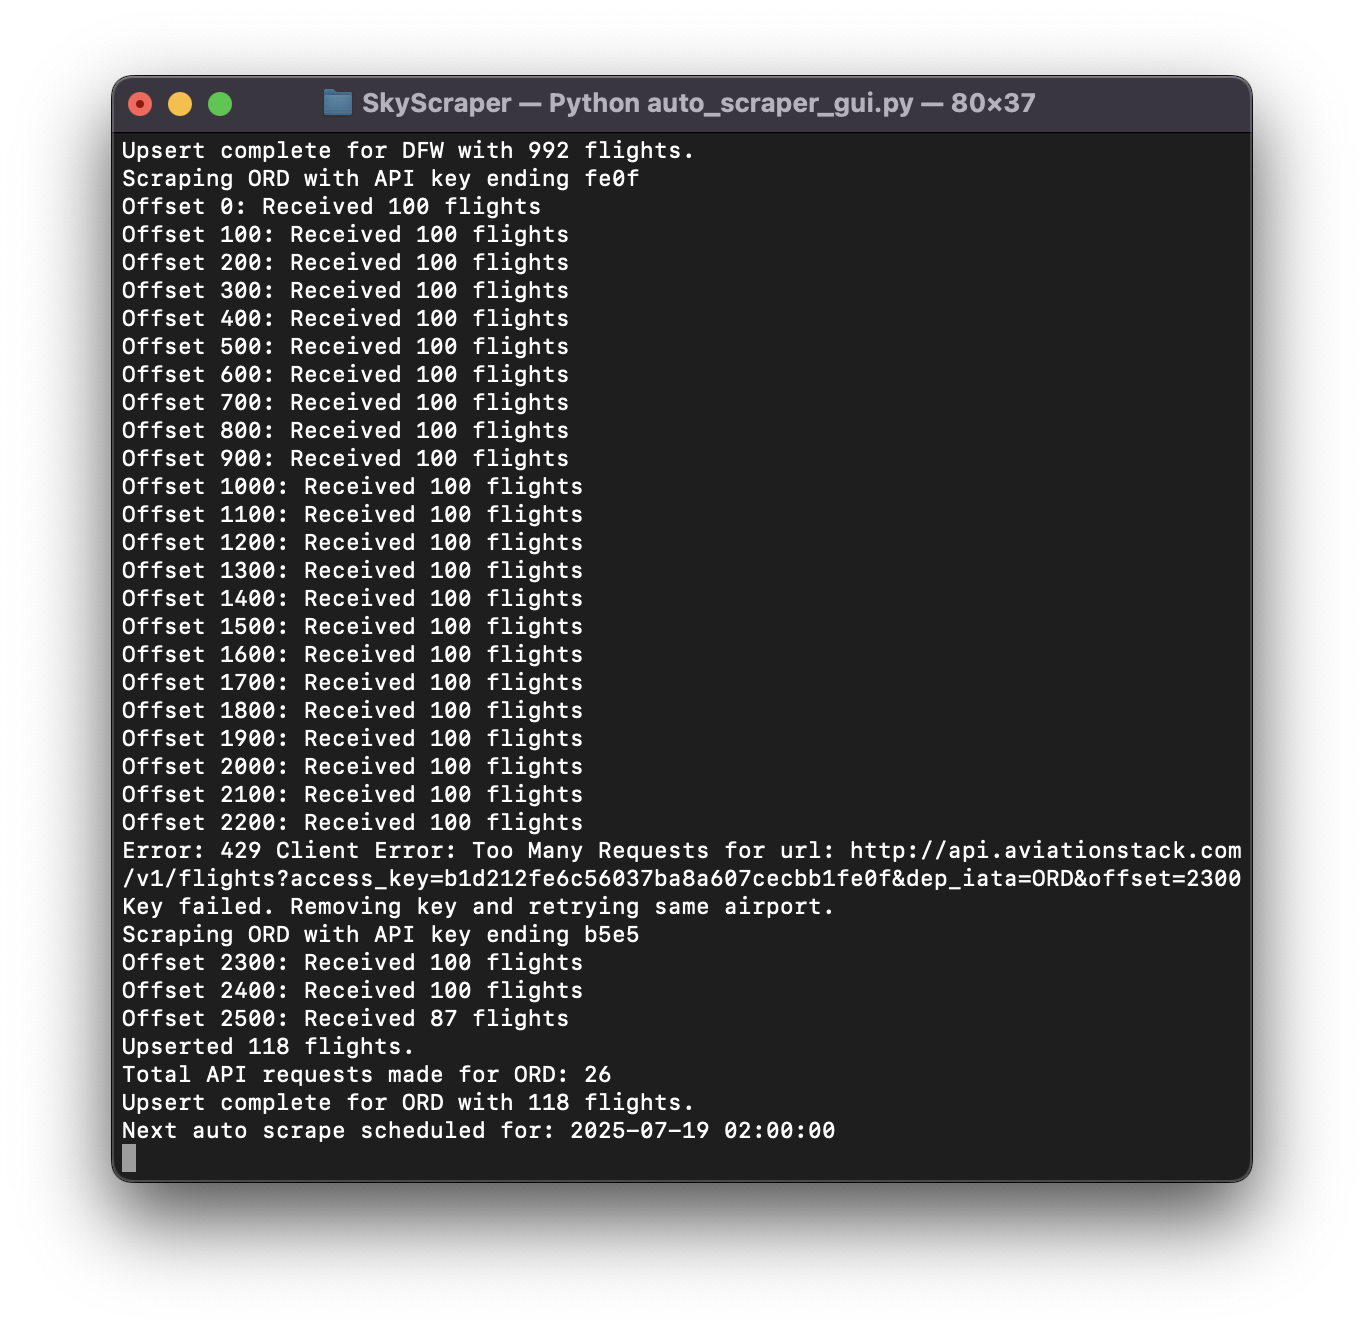
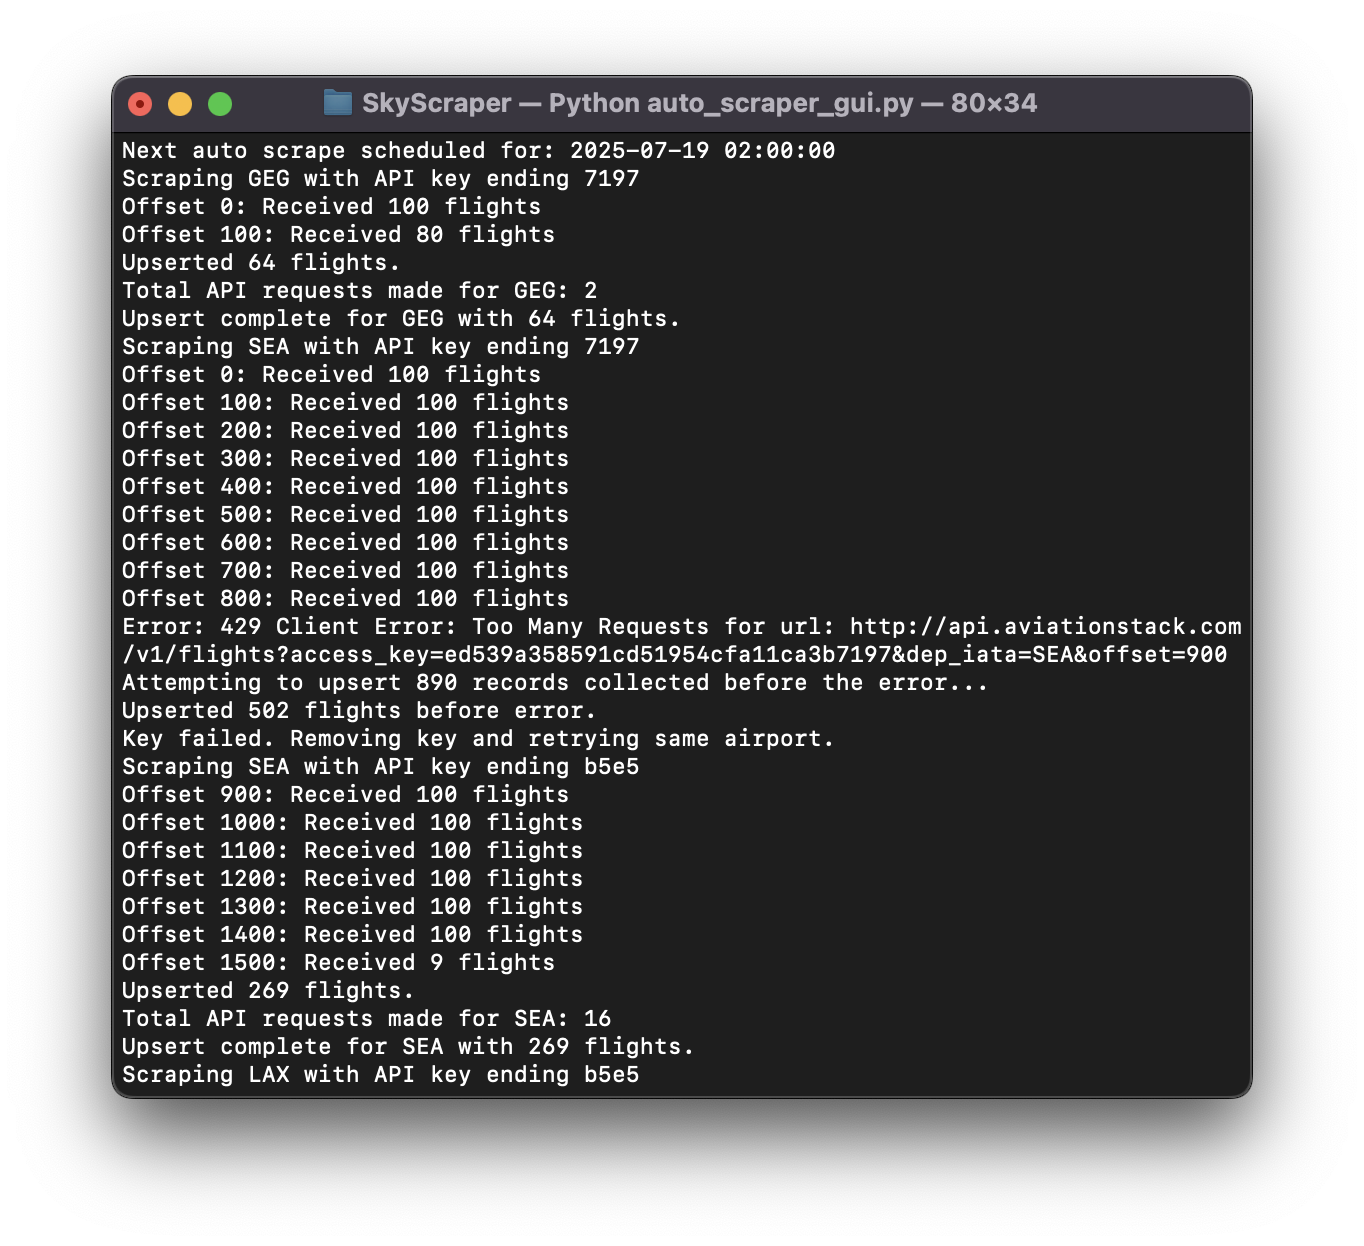
Ensure all data is upserted after API key failure

Changed region(s): [[0.0616, 0.0305, 0.9238, 0.9149]]

diff --git a/SkyScraper/scrape_real_flights.py b/SkyScraper/scrape_real_flights.py
@@ -183,4 +183,30 @@ def scrape(airport, api_key, mode="Upsert", offset=0):
 
     except Exception as e:
         print(f"Error: {e}")
-        return False, 0, mode, offset  # Return offset so GUI can retry properly
+        if records:
+            print(f"Attempting to upsert {len(records)} records collected before the error...")
+            # Deduplicate before upsert
+            unique = {}
+            for rec in records:
+                key = (
+                    rec["departureAirport"]["iataCode"],
+                    rec["arrivalAirport"]["iataCode"],
+                    rec["departureTime"],
+                    rec["dayOfWeek"]
+                )
+                unique[key] = rec
+            records = list(unique.values())
+
+            for rec in records:
+                flights_col.update_one(
+                    {
+                        "departureAirport.iataCode": rec["departureAirport"]["iataCode"],
+                        "arrivalAirport.iataCode": rec["arrivalAirport"]["iataCode"],
+                        "departureTime": rec["departureTime"],
+                        "dayOfWeek": rec["dayOfWeek"]
+                    },
+                    {"$set": rec},
+                    upsert=True
+                )
+            print(f"Upserted {len(records)} flights before error.")
+        return False, len(records), mode, offset  # Return offset so GUI can retry properly
